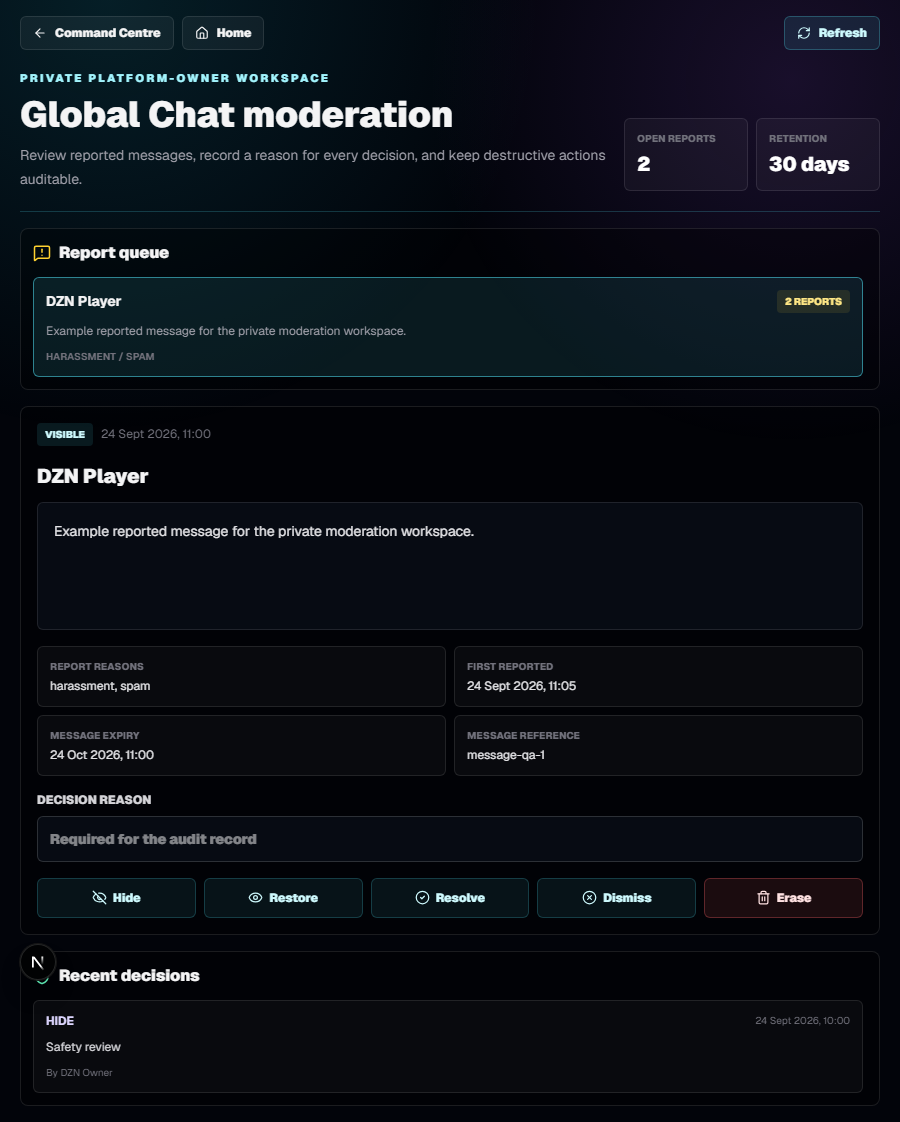
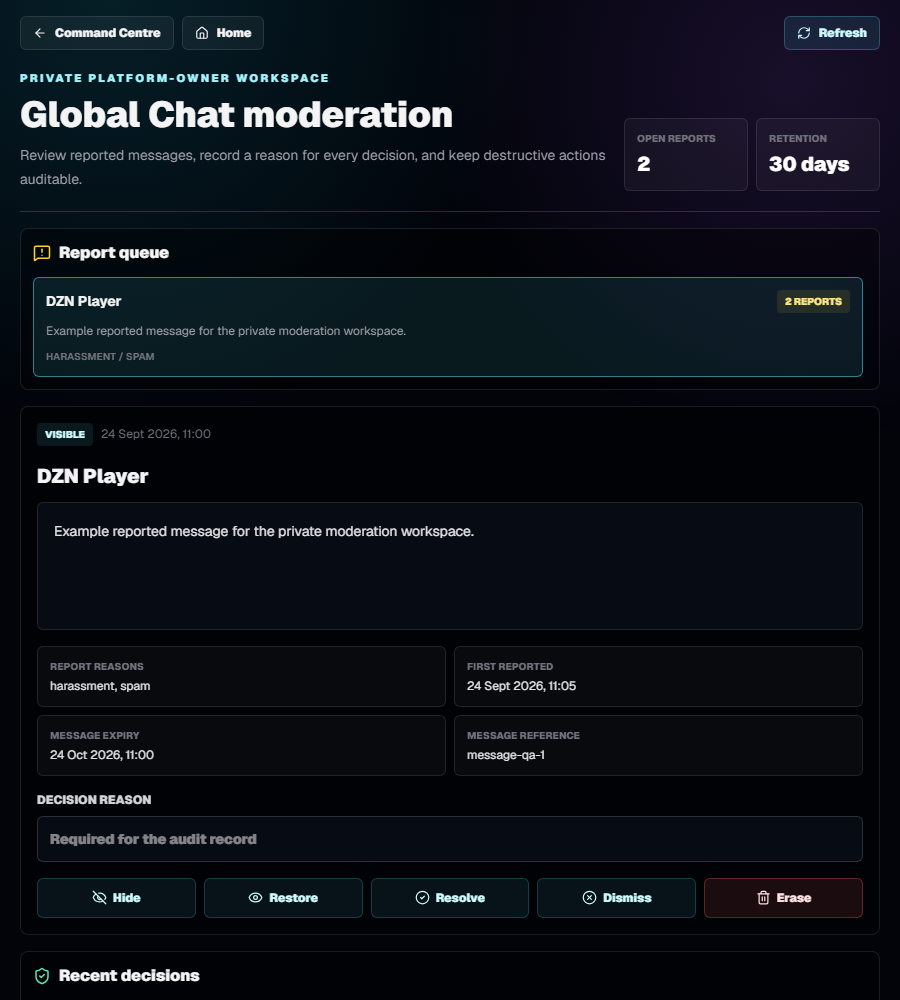
Preserve Comms rate limits during erasure

diff --git a/functions/_lib/dzn-comms-live.ts b/functions/_lib/dzn-comms-live.ts
@@ -73,6 +73,7 @@ export async function handleDznCommsSend(request: Request, env: Env) {
   const channel = await db.prepare("SELECT id FROM dzn_comms_channels WHERE slug = 'global-chat' AND kind = 'public' AND visibility = 'public' AND is_readable = 1 LIMIT 1").first<{ id: string }>();
   if (!channel?.id) return error(503, "CHAT_NOT_READY", "Global Chat is not ready yet.");
   const bodyHash = await keyedDigest(typeof parsed.value.body === "string" ? parsed.value.body : "", env.SESSION_SECRET!);
+  const actorRateKey = await rateLimitDigest(user.id, env.SESSION_SECRET!);
   const now = new Date();
   const minuteBucket = now.toISOString().slice(0, 16);
   try {
@@ -96,9 +97,16 @@ export async function handleDznCommsSend(request: Request, env: Env) {
   try {
     await db.batch([
       deleteExpiredReceipt(db, user.id, channel.id, requestId),
-      allocateSendSlot(db, user.id, minuteBucket, now.toISOString()),
+      allocateSendSlot(db, actorRateKey, minuteBucket, now.toISOString()),
       db.prepare("INSERT INTO dzn_comms_messages (id, channel_id, author_user_id, author_display_name, author_role_label, body, visibility_state, source_label, expires_at) VALUES (?, ?, ?, ?, 'Member', ?, 'visible', 'authenticated_web_chat', ?)").bind(messageId, channel.id, user.id, safeName(user), moderated.body, messageExpires),
-      db.prepare("INSERT INTO dzn_comms_send_receipts (id, actor_user_id, channel_id, client_request_id, body_hash, decision, response_status, reason_code, message_id, expires_at) VALUES (?, ?, ?, ?, ?, 'allow', 201, 'MESSAGE_ALLOWED', ?, ?)").bind(receiptId, user.id, channel.id, requestId, bodyHash, messageId, expires),
+      db.prepare(`INSERT INTO dzn_comms_send_receipts
+        (id, actor_user_id, channel_id, client_request_id, body_hash, decision, response_status, reason_code,
+          message_id, send_rate_key, send_minute_bucket, send_slot, expires_at)
+        SELECT ?, ?, ?, ?, ?, 'allow', 201, 'MESSAGE_ALLOWED', ?, ?, ?, slots.slot, ?
+        FROM dzn_comms_send_slots AS slots
+        WHERE slots.actor_rate_key = ? AND slots.minute_bucket = ? AND slots.accepted_at = ?
+        LIMIT 1`).bind(receiptId, user.id, channel.id, requestId, bodyHash, messageId, actorRateKey, minuteBucket, expires,
+          actorRateKey, minuteBucket, now.toISOString()),
     ]);
   } catch (cause) {
     const concurrentReplay = await readReceipt(db, user.id, channel.id, requestId);
@@ -166,24 +174,7 @@ export async function handleDznCommsModeration(request: Request, env: Env) {
   statements.push(db.prepare("INSERT INTO dzn_comms_moderation_audit (id, message_id, actor_user_id, action, reason_code) SELECT ?, ?, ?, ?, ? WHERE changes() > 0").bind(crypto.randomUUID(), messageId, auth.user.id, action, reason));
   if (state === "deleted") {
     statements.push(db.prepare("UPDATE dzn_comms_reports SET status = 'resolved', resolved_at = CURRENT_TIMESTAMP, resolved_by_user_id = ? WHERE message_id = ? AND status = 'open'").bind(auth.user.id, messageId));
-    statements.push(db.prepare(`WITH target_slot AS (
-        SELECT slots.actor_user_id, slots.minute_bucket, slots.slot
-        FROM dzn_comms_send_slots AS slots
-        JOIN dzn_comms_send_receipts AS receipts ON receipts.actor_user_id = slots.actor_user_id
-        WHERE receipts.message_id = ?
-          AND ABS((julianday(slots.accepted_at) - julianday(receipts.created_at)) * 86400.0) <= 5.0
-        ORDER BY ABS((julianday(slots.accepted_at) - julianday(receipts.created_at)) * 86400.0) ASC,
-          slots.accepted_at DESC, slots.slot DESC
-        LIMIT 1
-      )
-      DELETE FROM dzn_comms_send_slots
-      WHERE EXISTS (
-        SELECT 1 FROM target_slot
-        WHERE target_slot.actor_user_id = dzn_comms_send_slots.actor_user_id
-          AND target_slot.minute_bucket = dzn_comms_send_slots.minute_bucket
-          AND target_slot.slot = dzn_comms_send_slots.slot
-      )`).bind(messageId));
-    statements.push(db.prepare("UPDATE dzn_comms_send_receipts SET message_id = NULL WHERE message_id = ?").bind(messageId));
+    statements.push(db.prepare("UPDATE dzn_comms_send_receipts SET message_id = NULL, send_rate_key = NULL, send_minute_bucket = NULL, send_slot = NULL WHERE message_id = ?").bind(messageId));
   }
   const results = await db.batch(statements);
   if (Number(results[0]?.meta?.changes ?? 0) < 1 || Number(results[1]?.meta?.changes ?? 0) !== 1) {
@@ -313,14 +304,14 @@ function allocateAttemptSlot(db: D1Database, actorId: string, minuteBucket: stri
 function allocateReportSlot(db: D1Database, actorId: string, minuteBucket: string) {
   return db.prepare(slotAllocationSql("dzn_comms_report_slots", "reporter_user_id", REPORTS_PER_MINUTE)).bind(actorId, minuteBucket, actorId, minuteBucket);
 }
-function allocateSendSlot(db: D1Database, actorId: string, minuteBucket: string, acceptedAt: string) {
+function allocateSendSlot(db: D1Database, actorRateKey: string, minuteBucket: string, acceptedAt: string) {
   return db.prepare(`WITH RECURSIVE slots(slot) AS (SELECT 1 UNION ALL SELECT slot + 1 FROM slots WHERE slot < ${SENDS_PER_MINUTE})
-    INSERT INTO dzn_comms_send_slots (actor_user_id, minute_bucket, slot, accepted_at)
+    INSERT INTO dzn_comms_send_slots (actor_rate_key, minute_bucket, slot, accepted_at)
     SELECT ?, ?, CASE WHEN NOT EXISTS (
-      SELECT 1 FROM dzn_comms_send_slots WHERE actor_user_id = ? AND julianday(accepted_at) > julianday(?, '-5 seconds')
+      SELECT 1 FROM dzn_comms_send_slots WHERE actor_rate_key = ? AND julianday(accepted_at) > julianday(?, '-5 seconds')
     ) THEN (SELECT MIN(slot) FROM slots WHERE slot NOT IN (
-      SELECT slot FROM dzn_comms_send_slots WHERE actor_user_id = ? AND minute_bucket = ?
-    )) ELSE NULL END, ?`).bind(actorId, minuteBucket, actorId, acceptedAt, actorId, minuteBucket, acceptedAt);
+      SELECT slot FROM dzn_comms_send_slots WHERE actor_rate_key = ? AND minute_bucket = ?
+    )) ELSE NULL END, ?`).bind(actorRateKey, minuteBucket, actorRateKey, acceptedAt, actorRateKey, minuteBucket, acceptedAt);
 }
 function slotAllocationSql(table: "dzn_comms_attempt_slots" | "dzn_comms_report_slots", actorColumn: "actor_user_id" | "reporter_user_id", maximum: number) {
   return `WITH RECURSIVE slots(slot) AS (SELECT 1 UNION ALL SELECT slot + 1 FROM slots WHERE slot < ${maximum})
@@ -330,3 +321,4 @@ function slotAllocationSql(table: "dzn_comms_attempt_slots" | "dzn_comms_report_
     ))`;
 }
 async function keyedDigest(value: string, secret: string) { const key = await crypto.subtle.importKey("raw", new TextEncoder().encode(`dzn-comms:${secret}`), { name: "HMAC", hash: "SHA-256" }, false, ["sign"]); return [...new Uint8Array(await crypto.subtle.sign("HMAC", key, new TextEncoder().encode(value.normalize("NFKC"))))].map(byte => byte.toString(16).padStart(2, "0")).join(""); }
+async function rateLimitDigest(actorId: string, secret: string) { const key = await crypto.subtle.importKey("raw", new TextEncoder().encode(`dzn-comms-rate:${secret}`), { name: "HMAC", hash: "SHA-256" }, false, ["sign"]); return [...new Uint8Array(await crypto.subtle.sign("HMAC", key, new TextEncoder().encode(actorId)))].map(byte => byte.toString(16).padStart(2, "0")).join(""); }

diff --git a/scripts/test-dzn-comms-live-runtime.ts b/scripts/test-dzn-comms-live-runtime.ts
@@ -239,30 +239,36 @@ async function testReportAndModerationRuntime() {
 
   const erased = await fixture();
   try {
-    erased.sqlite.prepare(`INSERT INTO dzn_comms_messages
-      (id,channel_id,author_user_id,author_display_name,body,visibility_state)
-      VALUES ('message-delete','dzn-global-chat','other','Other','Sensitive text to erase','visible')`).run();
+    const sent = await handleDznCommsSend(request("/api/comms/messages", "other-token", {
+      channelSlug: "global-chat", clientRequestId: "delete-request-0001", body: "Sensitive text to erase",
+    }), erased.env);
+    assert.equal(sent.status, 201);
+    const messageId = (await payload(sent)).message_id!;
     erased.sqlite.prepare(`INSERT INTO dzn_comms_reports (id,message_id,reporter_user_id,reason_code)
-      VALUES ('report-delete','message-delete','player','personal_information')`).run();
-    erased.sqlite.prepare(`INSERT INTO dzn_comms_send_receipts
-      (id,actor_user_id,channel_id,client_request_id,body_hash,decision,response_status,message_id,expires_at)
-      VALUES ('receipt-delete','other','dzn-global-chat','delete-request','hash','allow',201,'message-delete',datetime('now','+1 day'))`).run();
-    erased.sqlite.prepare(`INSERT INTO dzn_comms_send_slots (actor_user_id,minute_bucket,slot,accepted_at)
-      VALUES ('other',strftime('%Y-%m-%dT%H:%M','now'),1,CURRENT_TIMESTAMP)`).run();
-    erased.sqlite.prepare(`INSERT INTO dzn_comms_send_slots (actor_user_id,minute_bucket,slot,accepted_at)
-      VALUES ('other',strftime('%Y-%m-%dT%H:%M','now'),2,datetime('now','-5.001 seconds'))`).run();
+      VALUES ('report-delete',?,'player','personal_information')`).run(messageId);
+    const receiptBefore = erased.sqlite.prepare("SELECT send_rate_key,send_minute_bucket,send_slot FROM dzn_comms_send_receipts WHERE message_id = ?").get(messageId);
+    assert.match(String(receiptBefore?.send_rate_key), /^[a-f0-9]{64}$/, "Accepted sends must use a pseudonymous rate key.");
+    assert.ok(receiptBefore?.send_minute_bucket && receiptBefore?.send_slot, "The receipt must persist the exact allocated slot.");
+    assert.equal(erased.count("dzn_comms_send_slots"), 1);
     const response = await handleDznCommsModeration(request("/api/owner/comms/moderate", "owner-token", {
-      messageId: "message-delete", action: "delete", reason: "personal information",
+      messageId, action: "delete", reason: "personal information",
     }), erased.env);
     assert.equal(response.status, 200);
-    const row = erased.sqlite.prepare("SELECT body,author_user_id,visibility_state FROM dzn_comms_messages WHERE id = 'message-delete'").get() as Row;
+    const row = erased.sqlite.prepare("SELECT body,author_user_id,visibility_state FROM dzn_comms_messages WHERE id = ?").get(messageId) as Row;
     assert.equal(row.body, "Message deleted.");
     assert.equal(row.author_user_id, null);
     assert.equal(row.visibility_state, "deleted");
     assert.equal(erased.sqlite.prepare("SELECT status FROM dzn_comms_reports WHERE id = 'report-delete'").get()?.status, "resolved");
-    assert.equal(erased.sqlite.prepare("SELECT message_id FROM dzn_comms_send_receipts WHERE id = 'receipt-delete'").get()?.message_id, null, "Erasure must unlink the retained idempotency receipt from its author's message.");
-    assert.equal(erased.count("dzn_comms_send_slots"), 1, "Erasure must remove exactly the nearest author/timestamp send-slot association.");
-    assert.equal(erased.sqlite.prepare("SELECT slot FROM dzn_comms_send_slots").get()?.slot, 2, "The neighboring accepted-send slot must remain intact.");
+    const receiptAfter = erased.sqlite.prepare("SELECT message_id,send_rate_key,send_minute_bucket,send_slot FROM dzn_comms_send_receipts WHERE client_request_id = 'delete-request-0001'").get();
+    assert.equal(receiptAfter?.message_id, null, "Erasure must unlink the retained receipt from the message.");
+    assert.equal(receiptAfter?.send_rate_key, null, "Erasure must clear the receipt's pseudonymous rate key.");
+    assert.equal(receiptAfter?.send_minute_bucket, null, "Erasure must clear the receipt's exact rate minute.");
+    assert.equal(receiptAfter?.send_slot, null, "Erasure must clear the receipt's exact rate slot.");
+    assert.equal(erased.count("dzn_comms_send_slots"), 1, "Erasure must retain the pseudonymous accepted-send slot until normal retention.");
+    const postErasureSend = await handleDznCommsSend(request("/api/comms/messages", "other-token", {
+      channelSlug: "global-chat", clientRequestId: "after-delete-0001", body: "Immediate follow-up",
+    }), erased.env);
+    assert.equal(postErasureSend.status, 429, "Moderation erasure must not refund the five-second or per-minute send quota.");
   } finally { erased.close(); }
 
   const erasedAfterSlotExpiry = await fixture();
@@ -273,13 +279,13 @@ async function testReportAndModerationRuntime() {
     erasedAfterSlotExpiry.sqlite.prepare(`INSERT INTO dzn_comms_send_receipts
       (id,actor_user_id,channel_id,client_request_id,body_hash,decision,response_status,message_id,created_at,expires_at)
       VALUES ('receipt-delete-late','other','dzn-global-chat','delete-late-request','hash','allow',201,'message-delete-late',datetime('now','-3 days'),datetime('now','+4 days'))`).run();
-    erasedAfterSlotExpiry.sqlite.prepare(`INSERT INTO dzn_comms_send_slots (actor_user_id,minute_bucket,slot,accepted_at)
-      VALUES ('other',strftime('%Y-%m-%dT%H:%M','now'),1,CURRENT_TIMESTAMP)`).run();
+    erasedAfterSlotExpiry.sqlite.prepare(`INSERT INTO dzn_comms_send_slots (actor_rate_key,minute_bucket,slot,accepted_at)
+      VALUES ('unrelated-pseudonymous-rate-key',strftime('%Y-%m-%dT%H:%M','now'),1,CURRENT_TIMESTAMP)`).run();
     const response = await handleDznCommsModeration(request("/api/owner/comms/moderate", "owner-token", {
       messageId: "message-delete-late", action: "delete", reason: "personal information",
     }), erasedAfterSlotExpiry.env);
     assert.equal(response.status, 200);
-    assert.equal(erasedAfterSlotExpiry.count("dzn_comms_send_slots"), 1, "Erasure after target-slot retention must not remove a newer unrelated send slot.");
+    assert.equal(erasedAfterSlotExpiry.count("dzn_comms_send_slots"), 1, "Erasure must not search for or remove an unrelated pseudonymous rate slot.");
     assert.equal(erasedAfterSlotExpiry.sqlite.prepare("SELECT message_id FROM dzn_comms_send_receipts WHERE id = 'receipt-delete-late'").get()?.message_id, null, "Late erasure must still unlink the retained receipt.");
     assert.equal(erasedAfterSlotExpiry.sqlite.prepare("SELECT visibility_state FROM dzn_comms_messages WHERE id = 'message-delete-late'").get()?.visibility_state, "deleted");
   } finally { erasedAfterSlotExpiry.close(); }

diff --git a/docs/DZN_COMMS_MESSAGE_SENDING_CONTRACT.md b/docs/DZN_COMMS_MESSAGE_SENDING_CONTRACT.md
@@ -31,7 +31,7 @@ The `local_test` scope is accepted only when the request host is loopback or a `
 
 The server controls actor identity, author label, channel, timestamp, visibility and source. It blocks token-shaped secrets, external Discord invites, repeated-character spam and severe threat/doxxing language. Rejected text remains request-memory-only and is never written to D1.
 
-Accepted messages, quota slots and decision receipts are written in one D1 batch. The receipt key is `(actor_user_id, channel_id, client_request_id)`. Same-key retries return the original result and a different body returns conflict. Each quota write allocates the first free slot atomically, so unrelated request IDs cannot collide. The accepted timestamp is checked against the previous accepted send to enforce a full five elapsed seconds, while bounded minute slots enforce the hard ceiling during concurrent sends.
+Accepted messages, quota slots and decision receipts are written in one D1 batch. The receipt key is `(actor_user_id, channel_id, client_request_id)`. Same-key retries return the original result and a different body returns conflict. Each quota write allocates the first free slot atomically under a secret-derived rate key, so the rate ledger does not store the raw user ID. The receipt records the exact allocated slot while the message is active. Destructive erasure clears that association but retains the pseudonymous slot until normal retention, preserving both cooldown and per-minute limits without retaining a message-to-author link. The accepted timestamp is checked against the previous accepted send to enforce a full five elapsed seconds, while bounded minute slots enforce the hard ceiling during concurrent sends.
 
 ## Reporting And Moderation
 
